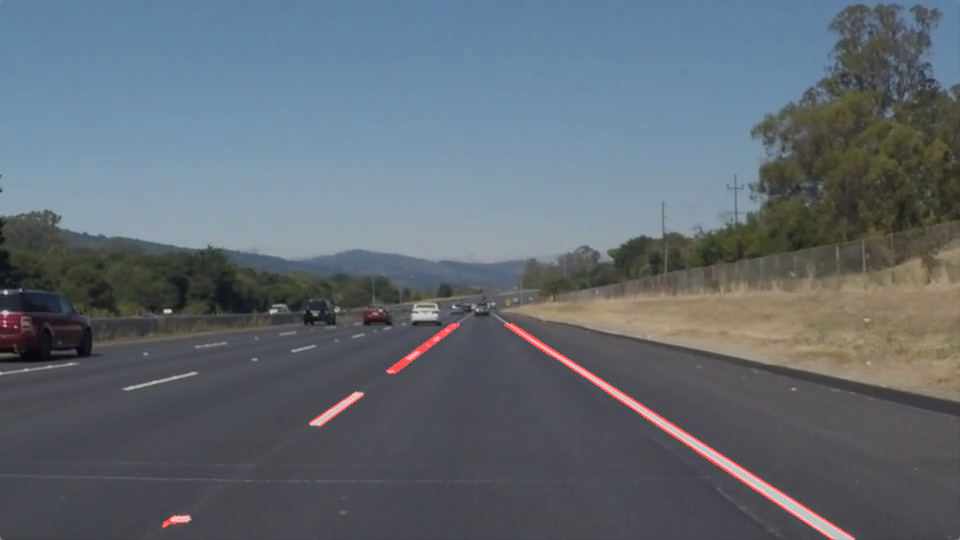
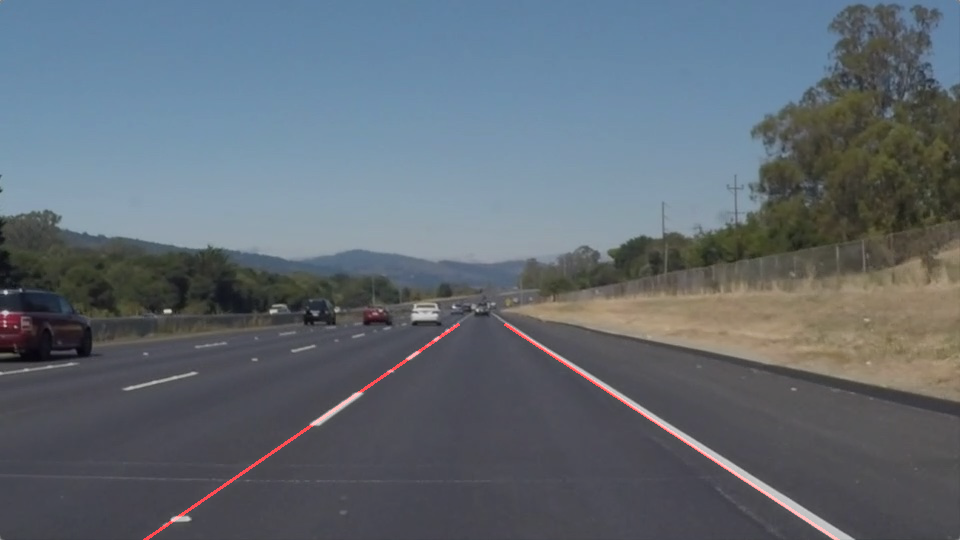
writeup
writeup

diff --git a/writeup.md b/writeup.md
@@ -16,7 +16,13 @@ The goals / steps of this project are the following:
 
 [image1]: ./examples/writeup_image1.png "Original Image"
 [image2]: ./examples/writeup_image2.png "Grayscale Image"
-
+[image3]: ./examples/writeup_image3.png "Gaussian Smoothing"
+[image4]: ./examples/writeup_image4.png "Canny Edge Detection"
+[image5]: ./examples/writeup_image5.png "Region Selection"
+[image6]: ./examples/writeup_image6.png "Hough Lines"
+[image7]: ./examples/writeup_image7.png "Final Output"
+[image8]: ./examples/writeup_image8.png "Improved Draw Lines"
+[image9]: ./examples/writeup_image9.png "Improved Final Output"
 ---
 
 ### Reflection
@@ -35,15 +41,28 @@ We perform the following steps:
 
 2- Then I applied **Gaussian Smoothing** using the`cv2.GaussianBlur` function:
 
-3- As lanes on the road usually consist of linear lines, we use the Canny Edge Detection algorithm to detect edges in the picture.
-4- Fourth, we use region select, assuming that the front facing camera that took the image is mounted in a fixed position on the car, such that the lane lines will always appear in the same general region of the image. This will help use detect the lanes for the car we are driving. 
-5- Next, we use the **Hough Transform** to find the lanes in the selected region. Note that the `hough_lines` functions used calls a special function to draw the lines, `draw_lines()`. More on that later.
-6- Finally, I draw the detected lines and superimpose them with a red color on our original image using the `weighted_img` function.
+![alt text][image3]
+
+3- As lanes on the road usually consist of linear lines, we use the Canny Edge Detection algorithm to detect edges in the picture:
+
+![alt text][image4]
+
+4- Fourth, we use region select, assuming that the front facing camera that took the image is mounted in a fixed position on the car, such that the lane lines will always appear in the same general region of the image. This will help use detect the lanes for the car we are driving:
+
+![alt text][image5]
+
+5- Next, we use the **Hough Transform** to find the lanes in the selected region. Note that the `hough_lines` functions used calls a special function to draw the lines, `draw_lines()` (More on that later):
+
+![alt text][image6]
+
+6- Finally, I draw the detected lines and superimpose them with a red color on our original image using the `weighted_img` function:
+
+![alt text][image7]
 
 In order to draw a single line on the left and right lanes, I modified the `draw_lines()` function by ...
 
-If you'd like to include images to show how the pipeline works, here is how to include an image: 
-
+![alt text][image8]
+![alt text][image9]
 
 
 
